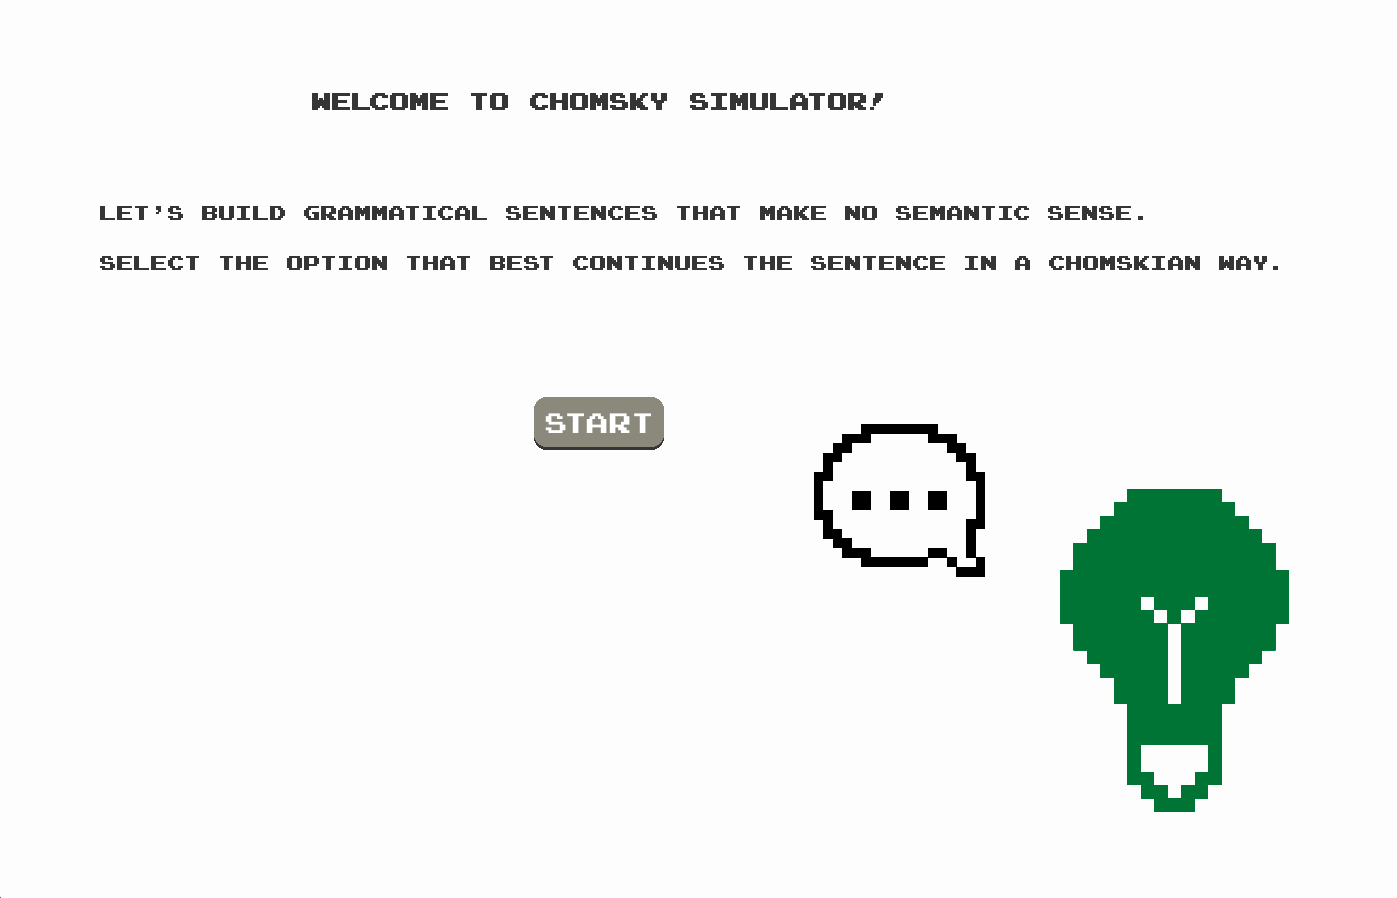
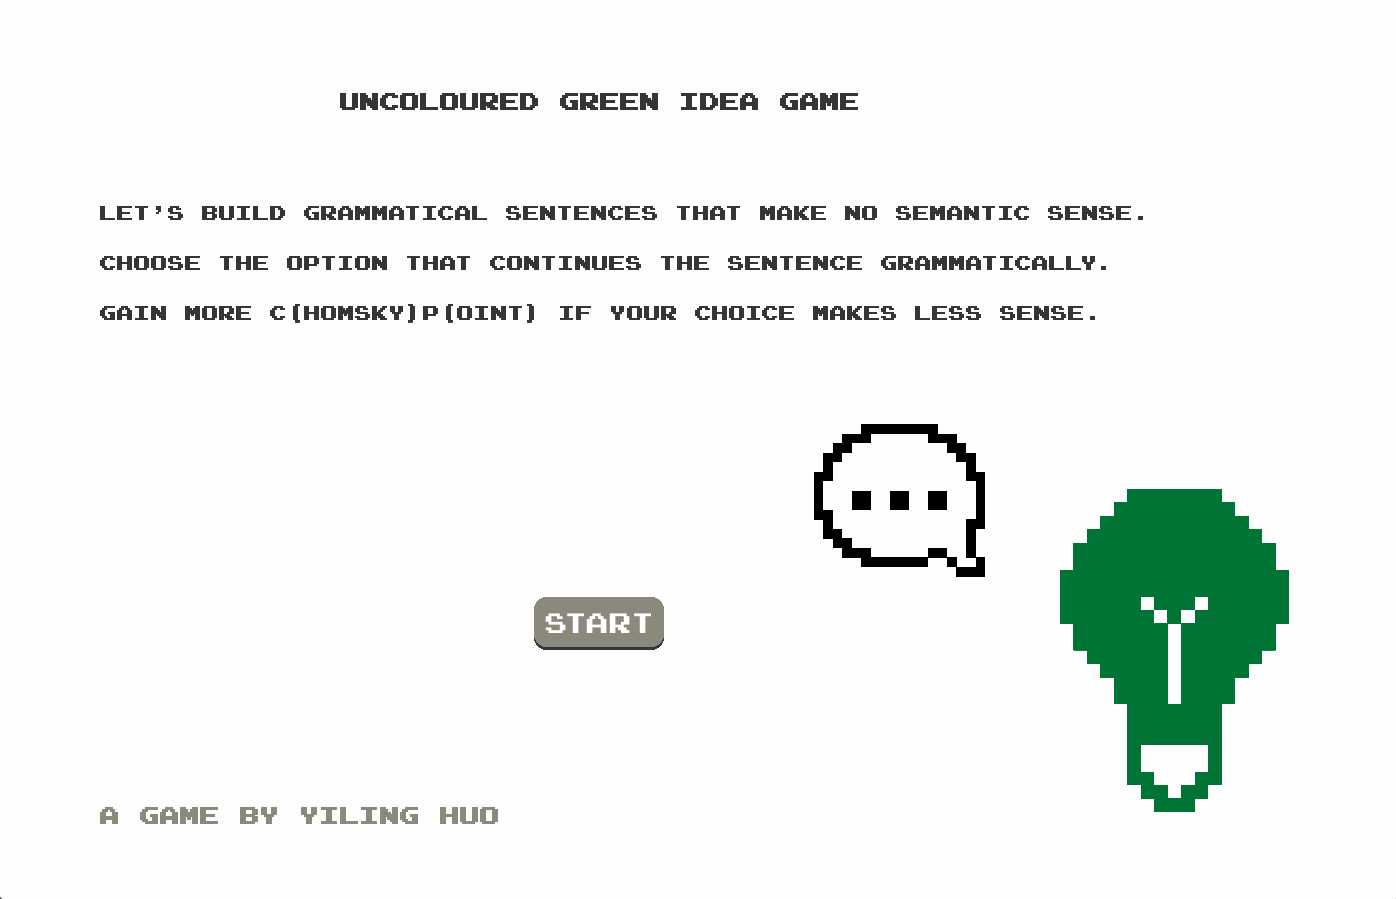
update

diff --git a/resources.html b/resources.html
@@ -23,9 +23,10 @@ scripts: ['Praat','Python','R']
 
 <ul>
   <li>
-    <p>Chomsky Simulator: <a id="chom"></a></p>
-    <p><a href="https://drive.google.com/file/d/15rvi9BMXK4dZKEvTWjPMZgSSNlIgmyIJ/view?usp=drive_link" download>Download</a> (version 0.1.0, 307.3 MB, Windows) <a href="https://github.com/Yiling-Huo/chomsky-simulator">Source code</a>. A game where you get to build grammatical nonsense sentences. Made with pygame.</p>
-    <p><img src="/images/resources/chom-1.png"  width="30%"><img src="/images/resources/chom-2.png"  width="30%"><img src="/images/resources/chom-4.png"  width="30%"></p>
+    <p>Uncolored Green Idea Game: <a id="chom"></a></p>
+    <p><a href="https://drive.google.com/file/d/1vYeqa27ony8s-Qk5t39FrVAWgjDeKFpR/view?usp=drive_link" download>Download</a> (version 0.1.1, 307.3 MB, Windows) <a href="https://github.com/Yiling-Huo/chomsky-simulator">Source code</a>. A game where you get to build grammatical nonsense sentences. Made with pygame.</p>
+    <p><img src="/images/resources/chom-1.png"  width="40%"><img src="/images/resources/chom-2.png"  width="40%"></p>
+    <p><img src="/images/resources/chom-3.png"  width="40%"><img src="/images/resources/chom-4.png"  width="40%"></p>
   </li>
   <li>
     <p>Chengyu Maze 成语迷宫: <a id="chengyu"></a></p>

diff --git a/_recent-activity.html b/_recent-activity.html
@@ -1,6 +1,6 @@
 <h3>Recent activities</h3>
 <ul>
-    <li>Added <a href="{{ site.url }}/resources/#chom">Chomsky Simulator</a> to Resources.</li></li>
+    <li>Updated <a href="{{ site.url }}/resources/#chom">Uncolored Green Idea Game</a>, version 0.1.1.</li></li>
     <li>Added <a href="{{ site.url }}/resources/#cfg">CFG Maze Game</a> to Resources.</li></li>
     <li>Added <a href="{{ site.url }}/tutorials/2024/02/20/present-pic-task">Python program to present an array of pictures and their labels</a> to Tutorials and Resources.</li>
     <li>Added <a href="{{ site.url }}/resources/#chengyu">Chengyu Maze</a> to Resources.</li>
